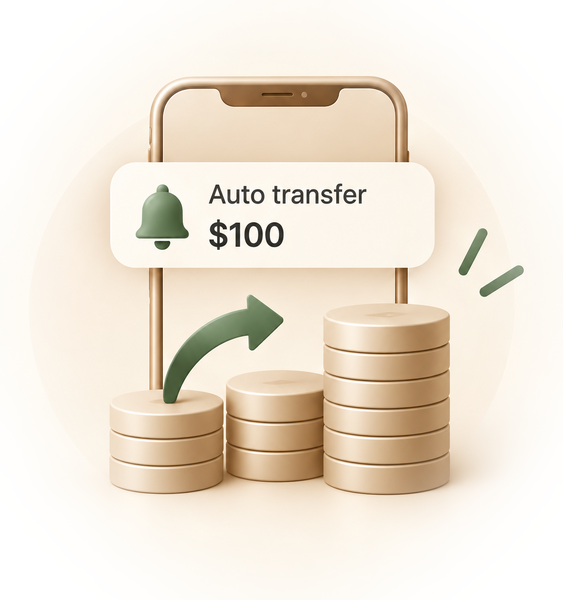
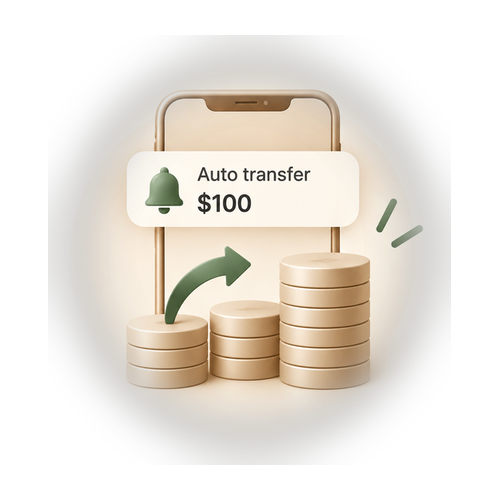
Goals: fix pillar position and image size mismatch between slides 2 and 3
- The two art images had different native aspect ratios (automate
  ~403x430 portrait, invest ~600x400 landscape), so object-fit:contain
  rendered them at different apparent sizes within the same square
  container. Padded both onto matching 500x500 transparent canvases
  with the same content-to-canvas scale, so they now render uniformly.
- Slide 2's longer paragraph (4 lines) vs slide 3's shorter one
  (3 lines) pushed slide 2's chip row further down, so the pillars
  landed at different vertical positions when swiping between slides.
  Gave .tip-text a min-height (78px, enough for 4 lines) so both
  slides reserve the same space regardless of actual line count —
  chips now always sit at the same Y position.

Claude-Session: https://claude.ai/code/session_016SyVRyYiEWqAUGTKJNZ3MT

diff --git a/style.css b/style.css
@@ -4598,7 +4598,7 @@ input[type="date"].filter-date {
   .tip-slide--save .tip-headline { font-size: 1.24rem; }
   .tip-headline br { display: inline; }
   .tip-headline br::before { content: " "; }
-  .tip-slide .tip-text { grid-area: text; margin-bottom: 0; font-size: 0.82rem; line-height: 1.45; }
+  .tip-slide .tip-text { grid-area: text; margin-bottom: 0; font-size: 0.82rem; line-height: 1.45; min-height: 78px; }
   .tip-slide--save .tip-text { font-size: 0.9rem; line-height: 1.42; }
   .tip-slide .tip-text .mobile-break { display: block; }
   .tip-slide--save {
